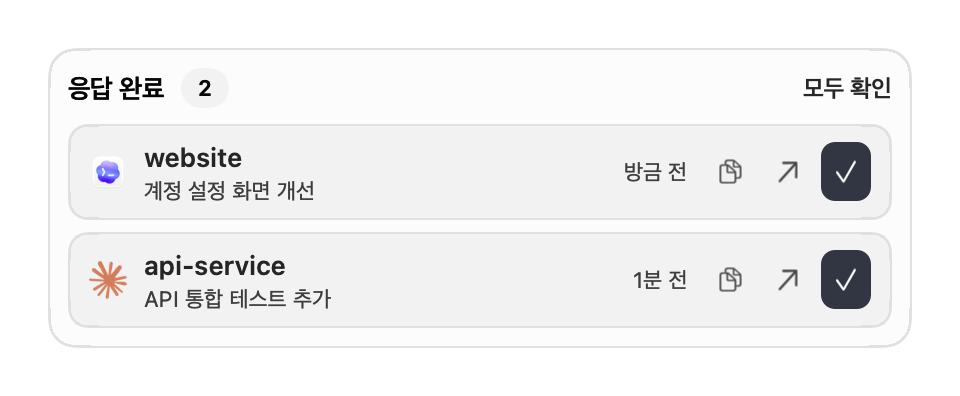
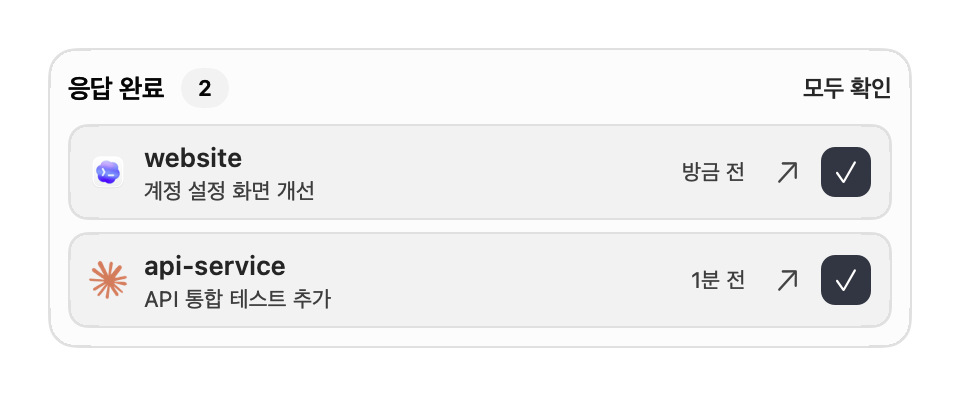
Keep one readable completion card per session

diff --git a/Sources/CompletionCard.swift b/Sources/CompletionCard.swift
@@ -23,21 +23,14 @@ final class CompletionCard: NSView {
         session.setContentCompressionResistancePriority(.defaultLow, for: .horizontal)
         let details = NSStackView(views: [title, session])
         details.orientation = .vertical; details.alignment = .leading; details.spacing = 1
+        details.setContentHuggingPriority(.defaultLow, for: .horizontal)
         let icon = NSImageView()
         icon.image = ProviderIcon.image(event.provider, size: 20)
+        icon.imageScaling = .scaleProportionallyUpOrDown
         icon.toolTip = event.provider.name + " · " + event.destination.label
         icon.setAccessibilityLabel(icon.toolTip!)
         icon.widthAnchor.constraint(equalToConstant: 20).isActive = true
         icon.heightAnchor.constraint(equalToConstant: 20).isActive = true
-        let copy = CompletionButton("", symbol: "doc.on.doc", plain: true) {
-            NSPasteboard.general.clearContents()
-            NSPasteboard.general.setString(SessionNavigator.resumeCommand(event), forType: .string)
-        }
-        let copyLabel = L10n.text("재개 명령 복사", "Copy resume command")
-        copy.toolTip = preview ? previewHint : copyLabel
-        copy.setAccessibilityLabel(copyLabel)
-        copy.isEnabled = !preview
-        copy.identifier = NSUserInterfaceItemIdentifier("completion-copy")
         let openButton = CompletionButton("", symbol: "arrow.up.right", plain: true, action: open)
         let openLabel = L10n.text("세션 열기", "Open session")
         openButton.toolTip = preview ? previewHint : openLabel
@@ -48,15 +41,20 @@ final class CompletionCard: NSView {
         dismiss.toolTip = L10n.text("확인", "Dismiss")
         dismiss.setAccessibilityLabel(dismiss.toolTip!)
         dismiss.identifier = NSUserInterfaceItemIdentifier("completion-dismiss")
-        [copy, openButton, dismiss].forEach {
+        [openButton, dismiss].forEach {
             $0.controlSize = .small
             $0.widthAnchor.constraint(equalToConstant: 26).isActive = true
             $0.setContentCompressionResistancePriority(.required, for: .horizontal)
         }
-        let buttons = NSStackView(views: [copy, openButton, dismiss])
+        let buttons = NSStackView(views: [openButton, dismiss])
         buttons.spacing = 3
-        let stack = NSStackView(views: [icon, details, NSView(), time, buttons])
-        stack.alignment = .centerY; stack.spacing = 8
+        let stack = NSView()
+        [icon, details, time, buttons].forEach {
+            $0.translatesAutoresizingMaskIntoConstraints = false
+            stack.addSubview($0)
+            $0.centerYAnchor.constraint(equalTo: stack.centerYAnchor).isActive = true
+        }
+        time.setContentHuggingPriority(.required, for: .horizontal)
         stack.translatesAutoresizingMaskIntoConstraints = false
         surface.addSubview(stack)
         NSLayoutConstraint.activate([
@@ -68,6 +66,13 @@ final class CompletionCard: NSView {
             stack.leadingAnchor.constraint(equalTo: surface.leadingAnchor, constant: 10),
             stack.trailingAnchor.constraint(equalTo: surface.trailingAnchor, constant: -10),
             stack.centerYAnchor.constraint(equalTo: surface.centerYAnchor),
+            stack.heightAnchor.constraint(equalToConstant: 34),
+            icon.leadingAnchor.constraint(equalTo: stack.leadingAnchor),
+            details.leadingAnchor.constraint(equalTo: icon.trailingAnchor, constant: 8),
+            time.leadingAnchor.constraint(equalTo: details.trailingAnchor, constant: 8),
+            buttons.leadingAnchor.constraint(equalTo: time.trailingAnchor, constant: 8),
+            buttons.trailingAnchor.constraint(equalTo: stack.trailingAnchor),
+            buttons.widthAnchor.constraint(equalToConstant: 55),
             title.widthAnchor.constraint(equalTo: details.widthAnchor),
             session.widthAnchor.constraint(equalTo: details.widthAnchor)
         ])

diff --git a/Tests/CompletionTests.swift b/Tests/CompletionTests.swift
@@ -30,6 +30,37 @@ func completionTests() throws {
     try store.record(newest)
     try store.acknowledge(Set([other.id]))
     try expect(try store.load().unread.map(\.id) == [newest.id], "Confirming a snapshot does not dismiss a concurrently arriving event")
+    let grouped = CompletionStore(directory: directory.appendingPathComponent("grouped"))
+    let base = Date()
+    func completion(_ id: String, _ offset: TimeInterval, provider: String = "codex", session: String = "same-session") -> CompletionEvent {
+        CompletionEvent(id: id, providerID: provider, sessionID: session, project: "Project", directory: "/project",
+                        sessionName: id, completedAt: base.addingTimeInterval(offset),
+                        destination: SessionDestination(host: .orca, target: "term_" + id))
+    }
+    let earliest = completion("first", 0), latest = completion("latest", 1)
+    try grouped.record(earliest); try grouped.record(latest)
+    try expect(try grouped.load().unread.map(\.id) == [latest.id], "A newer completion replaces the unread card for its provider and session")
+    try expect(try grouped.load().unread.first?.destination == latest.destination, "The replacement keeps the latest session label and navigation target")
+    try grouped.record(earliest)
+    try grouped.record(completion("delayed-old", -1))
+    try expect(try grouped.load().unread.map(\.id) == [latest.id], "Replayed and delayed older completions cannot replace the latest card")
+    try grouped.acknowledge(Set([earliest.id]))
+    try expect(try grouped.load().unread.map(\.id) == [latest.id], "Dismissing an older card does not hide its newer replacement")
+    try grouped.record(completion("claude-same-id", 2, provider: "claude"))
+    try grouped.record(completion("other-session", 3, session: "other"))
+    try expect(try grouped.load().unread.count == 3, "Different providers and sessions keep independent cards")
+    try grouped.acknowledge(latest.id)
+    try expect(try grouped.load().unread.allSatisfy { $0.providerID != "codex" || $0.sessionID != "same-session" },
+               "Dismissing the latest card cannot reveal an older completion")
+    let legacy = CompletionState(events: [earliest, latest])
+    try JSONEncoder().encode(legacy).write(to: grouped.file)
+    try expect(try CompletionStore(directory: grouped.directory).load().unread.map(\.id) == [latest.id],
+               "Relaunch coalesces multiple unread cards saved by older app versions")
+    try grouped.acknowledge(latest.id)
+    try grouped.record(earliest)
+    try expect(try grouped.load().unread.isEmpty, "Legacy older IDs remain suppressed after acknowledging the latest")
+    try grouped.record(completion("tie-a", 5)); try grouped.record(completion("tie-b", 5))
+    try expect(try grouped.load().unread.map(\.id) == ["tie-b"], "Equal timestamps use the most recently received completion")
     for kind in ["SessionStart", "SessionEnd", "SubagentStop", "Interrupt", "StopFailure"] {
         let data = try JSONSerialization.data(withJSONObject: ["hook_event_name": kind, "session_id": "s", "cwd": "/p"])
         try expect(try CompletionEvent.decode(data, provider: .claude, environment: [:]) == nil, "\(kind) is not a completion")

diff --git a/Tests/CompletionUITests.swift b/Tests/CompletionUITests.swift
@@ -43,6 +43,14 @@ import QuartzCore
         let bounds = action.convert(action.bounds, to: card)
         return bounds.width >= 26 && bounds.height >= 26 && abs(card.bounds.maxX - bounds.maxX - 10) < 1
     }, "Compact action buttons stay aligned to the right edge with usable hit areas")
+    try expect(buttons.filter { $0.identifier?.rawValue == "completion-dismiss" || $0.identifier?.rawValue == "completion-open" }
+        .allSatisfy { abs($0.frame.width - $0.frame.height) < 0.1 },
+        "Icon action buttons are visually square, without native bezel alignment insets")
+    try expect(cards.allSatisfy { card in
+        let title = descendants(card).compactMap { $0 as? NSButton }.first { !$0.title.isEmpty }
+        return (title?.frame.width ?? 0) > card.frame.width * 0.55
+    }, "Project and session titles receive the available row width instead of a blank spacer")
+    try expect(buttons.allSatisfy { $0.identifier?.rawValue != "completion-copy" }, "The notification has no copy action")
     try expect(panel.panel.isVisible && !panel.panel.hidesOnDeactivate, "Panel stays visible across app changes")
     try expect(panel.panel.level.rawValue >= NSWindow.Level.statusBar.rawValue && !panel.panel.canHide,
                "Floating inbox stays above ordinary and floating application windows")
@@ -156,6 +164,17 @@ import QuartzCore
     let settings = try JSONSerialization.jsonObject(with: Data(contentsOf: claudeConfig)) as! [String: Any]
     try expect(settings["theme"] as? String == "dark" && settings["hooks"] != nil, "Starting the controller connects Claude and preserves its existing settings")
     try expect(controller.unreadCount == 1, "Controller restores unread alerts from disk")
+    let replacement = CompletionEvent(id: "replacement", providerID: events[0].providerID, sessionID: events[0].sessionID,
+        project: events[0].project, directory: events[0].directory, sessionName: "Latest response",
+        completedAt: Date().addingTimeInterval(1), destination: SessionDestination())
+    try store.record(replacement)
+    func hasReplacement() -> Bool {
+        descendants(controllerPanel.panel.contentView!).compactMap { $0 as? NSTextField }.contains { $0.stringValue == "Latest response" }
+    }
+    let replacementDeadline = Date().addingTimeInterval(4)
+    while !hasReplacement() && Date() < replacementDeadline { RunLoop.main.run(until: Date().addingTimeInterval(0.05)) }
+    try expect(hasReplacement() && controller.unreadCount == 1,
+               "A newer completion updates the visible session card even when the unread count stays one")
     try store.record(events[1])
     waitForCount(2)
     try expect(controller.unreadCount == 2, "Controller discovers a completion received while running")

diff --git a/Sources/CompletionStore.swift b/Sources/CompletionStore.swift
@@ -6,6 +6,23 @@ struct CompletionState: Codable {
     var events: [CompletionEvent] = []
     var contexts: [String: CompletionContext]?
     var unread: [CompletionEvent] { events.filter { $0.acknowledgedAt == nil }.sorted { $0.completedAt > $1.completedAt } }
+
+    mutating func keepLatestPerSession(at now: Date = Date()) {
+        var latest: [String: Int] = [:]
+        for index in events.indices {
+            let event = events[index]
+            let key = event.providerID + "\u{0}" + event.sessionID
+            if let previous = latest[key], events[previous].completedAt > event.completedAt { continue }
+            latest[key] = index
+        }
+        for index in events.indices where events[index].acknowledgedAt == nil {
+            let key = events[index].providerID + "\u{0}" + events[index].sessionID
+            if let newest = latest[key], newest != index {
+                // Keep replaced IDs for replay protection, but never resurface an older card.
+                events[index].acknowledgedAt = events[newest].acknowledgedAt ?? now
+            }
+        }
+    }
 }
 
 struct CompletionContext: Codable {
@@ -24,8 +41,9 @@ struct CompletionStore {
     func load() throws -> CompletionState {
         guard FileManager.default.fileExists(atPath: file.path) else { return CompletionState() }
         do {
-            let state = try JSONDecoder().decode(CompletionState.self, from: Data(contentsOf: file))
+            var state = try JSONDecoder().decode(CompletionState.self, from: Data(contentsOf: file))
             guard state.version == 1 else { throw CompletionError.corruptStore }
+            state.keepLatestPerSession()
             return state
         } catch { throw CompletionError.corruptStore }
     }
@@ -89,6 +107,7 @@ struct CompletionStore {
         defer { flock(lock, LOCK_UN) }
         var state = try load()
         try change(&state)
+        state.keepLatestPerSession()
         // Never expire unread alerts. Keep acknowledged IDs for 90 days to suppress replays.
         let cutoff = Date().addingTimeInterval(-90 * 86400)
         state.events.removeAll { $0.acknowledgedAt.map { $0 < cutoff } ?? false }

diff --git a/Sources/Completion.swift b/Sources/Completion.swift
@@ -8,7 +8,7 @@ enum CompletionError: Error, LocalizedError {
         case .invalidEvent: return L10n.text("완료 이벤트 형식을 확인해 주세요.", "Invalid completion event.")
         case .busy: return L10n.text("잠시 후 다시 시도해 주세요.", "Please try again shortly.")
         case .unavailable: return L10n.text("원래 세션으로 이동하지 못했습니다. 앱·탭이 열려 있는지와 자동화 권한을 확인해 주세요.", "Could not open the original session. Check that its app and tab are open and automation is allowed.")
-        case .unsupported: return L10n.text("이 환경의 탭으로 바로 이동할 수 없습니다. 세션 재개 명령을 복사해 사용해 주세요.", "Direct navigation is unavailable for this environment. Copy the resume command instead.")
+        case .unsupported: return L10n.text("이 환경의 탭으로 바로 이동할 수 없습니다. 원래 터미널에서 세션을 직접 열어 주세요.", "Direct navigation is unavailable for this environment. Open the session in its original terminal.")
         case .corruptStore: return L10n.text("알림 저장 파일을 읽지 못했습니다. 기존 파일은 보존했습니다.", "Cannot read the notification store. The existing file has been preserved.")
         }
     }

diff --git a/Sources/SessionNavigator.swift b/Sources/SessionNavigator.swift
@@ -3,11 +3,6 @@ import AppKit
 enum SessionNavigator {
     static func shellQuote(_ value: String) -> String { "'" + value.replacingOccurrences(of: "'", with: "'\\''") + "'" }
 
-    static func resumeCommand(_ event: CompletionEvent) -> String {
-        let command = event.provider == .codex ? "codex resume" : "claude --resume"
-        return "cd -- \(shellQuote(event.directory)) && \(command) \(shellQuote(event.sessionID))"
-    }
-
     /// Navigation never acknowledges the alert: URL handlers cannot prove the session is visible.
     @MainActor static func open(_ original: SessionDestination) async throws {
         let destination = await Task.detached { HerdrClientBinding.resolve(original, directory: CompletionStore.standard.directory) }.value

diff --git a/Sources/CompletionStyle.swift b/Sources/CompletionStyle.swift
@@ -54,6 +54,8 @@ final class CompletionButton: NSButton {
     }
     required init?(coder: NSCoder) { fatalError("init(coder:) has not been implemented") }
     @objc private func invoke() { perform?() }
+    // This control draws its whole frame; NSButton's symbol/bezel insets distort icon buttons.
+    override var alignmentRectInsets: NSEdgeInsets { NSEdgeInsets(top: 0, left: 0, bottom: 0, right: 0) }
     override var intrinsicContentSize: NSSize {
         let text = (title as NSString).size(withAttributes: [.font: font!])
         if title.isEmpty, image != nil { return NSSize(width: 26, height: 26) }

diff --git a/Tests/completion_test.py b/Tests/completion_test.py
@@ -53,6 +53,22 @@ class CompletionIntegrationTests(unittest.TestCase):
             self.assertEqual(self.hook(stop, "claude").returncode, 0)
         self.assertEqual(len(self.state()["events"]), 2)
 
+    def test_concurrent_turns_keep_one_unread_card_per_provider_and_session(self):
+        payloads = [self.completion("same-session", f"turn-{i}") for i in range(12)]
+        with concurrent.futures.ThreadPoolExecutor(max_workers=8) as workers:
+            results = list(workers.map(self.hook, payloads))
+        self.assertTrue(all(p.returncode == 0 for p in results), [p.stderr for p in results])
+        stored = self.state()["events"]
+        unread = [e for e in stored if e.get("acknowledgedAt") is None]
+        self.assertEqual(len(stored), 12)  # Retain replaced IDs to suppress replays.
+        self.assertEqual(len(unread), 1)
+        latest_id = unread[0]["id"]
+        for payload in payloads:
+            self.assertEqual(self.hook(payload).returncode, 0)
+        self.assertEqual([e["id"] for e in self.state()["events"] if e.get("acknowledgedAt") is None], [latest_id])
+        self.assertEqual(self.hook(self.completion("same-session", "claude-turn"), "claude").returncode, 0)
+        self.assertEqual(len([e for e in self.state()["events"] if e.get("acknowledgedAt") is None]), 2)
+
     def test_ignored_events_do_not_create_alerts(self):
         for event in ["SessionStart", "Interrupt", "StopFailure", "SessionEnd", "SubagentStop"]:
             result = self.hook({"hook_event_name": event, "session_id": "s", "cwd": "/p"})

diff --git a/Docs/Notifications.md b/Docs/Notifications.md
@@ -2,11 +2,13 @@
 
 AiQuotaBar can show persistent completion cards for multiple Codex and Claude Code sessions. Cards initially appear on the macOS primary display, float above other apps across Spaces (including full-screen spaces), and remain until you choose **Dismiss** or **Dismiss all**. Drag the panel's header or background to any connected display. Its position is remembered, including when new cards arrive or the app restarts. If that display is disconnected, the panel returns to the primary display.
 
-The inbox is an independent, borderless floating window; it does not send macOS Notification Center banners. Each compact 48-point card shows a provider icon, project, session label, and relative completion time. Hover over the icon for the provider and terminal, or the time for the exact date and time. Clicking the project or **↗ Open session** targets the original session without dismissing its card. The copy icon copies the resume command; **✓ Dismiss** acknowledges the card. All icon buttons have tooltips and accessibility labels. The window stays above other app windows and fits its cards without an internal scrollbar. Up to three cards fit on a page (fewer on a small display); previous/next buttons expose the rest.
+Only the latest completion for each provider/session appears. A new completion updates that card and its time; previous event IDs remain stored for replay protection. Existing duplicate cards are collapsed when the app loads them. Dismissing the newest card does not reveal older completions.
+
+The inbox is an independent, borderless floating window; it does not send macOS Notification Center banners. Each compact 48-point card shows a provider icon, project, session label, and relative completion time. Hover over the icon for the provider and terminal, or the time for the exact date and time. Clicking the project or **↗ Open session** targets the original session without dismissing its card. **✓ Dismiss** acknowledges the card. The title uses the available row width, and action buttons are square. All icon buttons have tooltips and accessibility labels. The window stays above other app windows and fits its cards without an internal scrollbar. Up to three cards fit on a page (fewer on a small display); previous/next buttons expose the rest.
 
 The entire panel swings three times by ±3° around its top-right corner when new completions arrive and every 12 seconds afterward. Each movement takes 0.11 seconds. Dismissal stops the animation; macOS **Reduce motion** disables it, including when enabled while the animation is running.
 
-Choose **Preview floating alert** in the menu to see and dismiss two clearly marked sample cards without running an agent. Preview cards are never stored, never count as unread completions, and have session navigation and command copying disabled. Real incoming completions replace the preview. **Show completions** also uses the custom panel when the inbox is empty.
+Choose **Preview floating alert** in the menu to see and dismiss two clearly marked sample cards without running an agent. Preview cards are never stored, never count as unread completions, and have session navigation disabled. Real incoming completions replace the preview. **Show completions** also uses the custom panel when the inbox is empty.
 
 <img src="../Assets/screenshots/completions-en.png" alt="Completion cards for fictional Codex and Claude Code sessions" width="390">
 
@@ -55,9 +57,9 @@ AIQUOTABAR_SESSION_NAME="Account settings" codex
 | WezTerm | Existing pane via `wezterm cli activate-pane` | Requires `WEZTERM_PANE`; preserves `WEZTERM_UNIX_SOCKET` when supplied. |
 | kitty | Existing pane via `kitten @ focus-window` | Requires `KITTY_WINDOW_ID`, a local `unix:` `KITTY_LISTEN_ON`, and already-configured remote-control permission. AiQuotaBar does not change kitty settings. |
 | Herdr | Current attached terminal plus the Herdr agent pane | Start Herdr using the wrapper below. The most recently registered live attachment is used. |
-| Ghostty, VS Code / Cursor integrated terminal, tmux, screen, SSH | Completion cards and **Copy resume** | Exact-tab navigation is not implemented. These environments need additional session mapping or an extension/remote bridge. |
+| Ghostty, VS Code / Cursor integrated terminal, tmux, screen, SSH | Completion cards only | Exact-tab navigation is not implemented. These environments need additional session mapping or an extension/remote bridge. |
 
-Navigation uses captured identifiers, never the frontmost tab, project name, or screen coordinates. A closed tab, unavailable CLI, denied Automation permission, unsupported environment, or expired handle leaves the card unread with an explanation. **Copy resume** copies a shell-quoted command; it does not execute it or create another session automatically. URL-based integrations can acknowledge only that macOS accepted the URL, not that the pane became visible, so opening a card never counts as dismissal.
+Navigation uses captured identifiers, never the frontmost tab, project name, or screen coordinates. A closed tab, unavailable CLI, denied Automation permission, unsupported environment, or expired handle leaves the card unread with an explanation. If navigation is unavailable, open or resume the session in its original terminal. URL-based integrations can acknowledge only that macOS accepted the URL, not that the pane became visible, so opening a card never counts as dismissal.
 
 ### Herdr
 
@@ -70,7 +72,7 @@ AQB="/Applications/AiQuotaBar.app/Contents/MacOS/AiQuotaBar"
 "$AQB" --run-herdr --session work
 ```
 
-Run this in a supported outer terminal, then launch Codex / Claude with the hooks connected. The wrapper records the outer terminal and replaces itself with `herdr`; it does not create an additional agent or intercept terminal input. On click, AiQuotaBar checks that attachment's process lifetime and the Herdr socket identity, selects the Herdr pane, and reveals the outer tab. Reattach with the wrapper after changing terminals. If several clients attach, the last registered live client is the destination. A server restart invalidates old pane destinations; use **Copy resume** rather than opening a potentially reused pane ID. SSH and nested tmux/Herdr attachments are not supported by this wrapper.
+Run this in a supported outer terminal, then launch Codex / Claude with the hooks connected. The wrapper records the outer terminal and replaces itself with `herdr`; it does not create an additional agent or intercept terminal input. On click, AiQuotaBar checks that attachment's process lifetime and the Herdr socket identity, selects the Herdr pane, and reveals the outer tab. Reattach with the wrapper after changing terminals. If several clients attach, the last registered live client is the destination. A server restart invalidates old pane destinations; reopen the session manually instead of following a potentially reused pane ID. SSH and nested tmux/Herdr attachments are not supported by this wrapper.
 
 ## What “finished” means
 
@@ -86,10 +88,11 @@ Before switching to this advanced integration, run `--remove-completion-hooks co
 
 ## Local data and troubleshooting
 
-`~/Library/Application Support/AiQuotaBar/Notifications/` holds completion metadata, destination IDs, and local Herdr bindings. Files are user-only; writes are atomic and protected by a process lock. Prompt and assistant text, credentials, and terminal output are not saved. There is no analytics or network collector. Unread cards never expire; acknowledged event IDs are kept for 90 days to prevent replay after restart. All unread cards remain available through page controls; the panel fits its current page without scrolling.
+`~/Library/Application Support/AiQuotaBar/Notifications/` holds completion metadata, destination IDs, and local Herdr bindings. Files are user-only; writes are atomic and protected by a process lock. Prompt and assistant text, credentials, and terminal output are not saved. There is no analytics or network collector. The latest unread card per provider/session never expires; acknowledged and replaced event IDs are kept for 90 days to prevent replay after restart. All unread cards remain available through page controls; the panel fits its current page without scrolling.
 
+- **Only some sessions notify:** sessions already running when hooks were installed or trusted may still use their previous hook configuration. After their current work finishes, restart Codex and resume the same conversation with `codex resume`, then review AiQuotaBar in `/hooks`. Installing or restarting AiQuotaBar alone does not refresh those running Codex sessions.
 - **No cards:** check the configuration path, start a new session, review Codex `/hooks`, and ensure hooks are not globally disabled. Test from the same profile used by the agent manager.
-- **No direct navigation:** sample previews have no real session and disable navigation. For real alerts, check the table above, Automation permissions, and whether the original tab still exists; use **Copy resume** when the destination is unavailable. For Herdr, attach through `--run-herdr`.
+- **No direct navigation:** sample previews have no real session and disable navigation. For real alerts, check the table above, Automation permissions, and whether the original tab still exists; open the session manually when the destination is unavailable. For Herdr, attach through `--run-herdr`.
 - **Store error:** AiQuotaBar preserves an unreadable file rather than silently resetting it. Quit the app and back up the Notifications folder before repairing it.
 - **Moving:** launch from the new location to update the automatic profile; reconnect custom profiles with the CLI. **Uninstalling:** disconnect hooks in every profile first. Unread metadata remains until you separately remove the Notifications folder.
 

diff --git a/README.ko.md b/README.ko.md
@@ -84,13 +84,13 @@ open dist/AiQuotaBar.app
 
 ## 완료 알림
 
-AiQuotaBar를 실행하면 설치된 Codex·Claude Code CLI의 완료 알림이 자동으로 연결됩니다. 별도 연결 메뉴나 설정 대화 상자는 없으며, 연결 후 새 에이전트 세션을 시작하면 됩니다. Codex 자체의 보안 절차에 따라 `/hooks`에서 새 훅을 검토하고 신뢰하는 과정은 필요합니다. 프로젝트·세션·완료 시각이 표시된 카드는 확인할 때까지 유지되며 앱 재실행 후에도 복원됩니다. 세션을 열기만 해서는 확인 처리하지 않습니다.
+AiQuotaBar를 실행하면 설치된 Codex·Claude Code CLI의 완료 알림이 자동으로 연결됩니다. 별도 연결 메뉴나 설정 대화 상자는 없으며, 연결 후 새 에이전트 세션을 시작하면 됩니다. Codex 자체의 보안 절차에 따라 `/hooks`에서 새 훅을 검토하고 신뢰하는 과정은 필요합니다. 서비스·세션별로 카드 하나만 표시하며, 새 완료가 오면 최신 내용으로 갱신합니다. 프로젝트·세션·완료 시각이 표시된 카드는 확인할 때까지 유지되며 앱 재실행 후에도 복원됩니다. 세션을 열기만 해서는 확인 처리하지 않습니다.
 
 알림은 처음에 메인 모니터에 표시됩니다. 상단이나 빈 배경을 드래그해 다른 모니터로 옮길 수 있으며, 새 알림이 오거나 앱을 다시 실행해도 옮긴 위치를 유지합니다. 해당 모니터의 연결을 해제하면 메인 모니터로 돌아옵니다.
 
 기본 OS 알림 배너와 별개인 자체 플로팅 창입니다. 높이 48pt의 작은 카드에 서비스 아이콘·프로젝트·세션·완료 시각과 작은 동작 버튼을 표시합니다. 확인할 때까지 12초마다 오른쪽 위 모서리를 기준으로 좌우 세 번 흔들리며, ‘동작 줄이기’ 설정을 따릅니다. 메뉴의 **플로팅 미리보기**에서 예시 데이터로 바로 확인할 수 있습니다.
 
-Terminal, iTerm2, Warp, cmux, Orca, WezTerm, 설정된 kitty 세션의 직접 이동을 구현했습니다. Herdr는 바깥 터미널을 정확히 찾기 위한 접속 래퍼가 필요합니다. 지원하지 않거나 닫힌 탭은 재개 명령을 복사할 수 있습니다. 자동 연결은 기존 훅을 보존하고 변경되는 설정 파일을 백업합니다. 설치되지 않은 도구는 건너뛰고 나중에 설치하면 감지하며, 잘못된 설정이나 비활성화된 훅은 그대로 두고 연결 문제로 표시합니다.
+Terminal, iTerm2, Warp, cmux, Orca, WezTerm, 설정된 kitty 세션의 직접 이동을 구현했습니다. Herdr는 바깥 터미널을 정확히 찾기 위한 접속 래퍼가 필요합니다. 지원하지 않거나 닫힌 탭은 이유를 표시하며, 원래 터미널에서 직접 열거나 재개해야 합니다. 자동 연결은 기존 훅을 보존하고 변경되는 설정 파일을 백업합니다. 설치되지 않은 도구는 건너뛰고 나중에 설치하면 감지하며, 잘못된 설정이나 비활성화된 훅은 그대로 두고 연결 문제로 표시합니다.
 
 버전·환경별 조건, Herdr 접속, 사용자 지정 프로필, 완료의 의미와 데이터 보관 방식은 [완료 알림 가이드](Docs/Notifications.ko.md)를 참고하세요. 이 기능은 소스 빌드에 포함되며, 공개된 v0.1.0 DMG에는 아직 포함되지 않았습니다.
 

diff --git a/README.md b/README.md
@@ -84,13 +84,13 @@ The app searches standard Homebrew paths, `~/.local/bin`, the launch environment
 
 ## Completion notifications
 
-Launch AiQuotaBar to automatically connect installed Codex and Claude Code CLIs; no connection menu or setup dialog is required. Start a new agent session afterward. Codex still requires reviewing and trusting new hooks in `/hooks`. Cards remain until dismissed, survive app restarts, and include project, session, and completion time. Opening a card keeps it unread until you explicitly dismiss it.
+Launch AiQuotaBar to automatically connect installed Codex and Claude Code CLIs; no connection menu or setup dialog is required. Start a new agent session afterward. Codex still requires reviewing and trusting new hooks in `/hooks`. Each provider/session keeps one card, updated by its newest completion. Cards remain until dismissed, survive app restarts, and include project, session, and completion time. Opening a card keeps it unread until you explicitly dismiss it.
 
 Notifications initially appear on the macOS primary display. Drag the header or background to any connected monitor; new alerts and app restarts preserve your chosen position. Disconnecting that monitor returns the panel to the primary display.
 
 This is a custom floating window with compact 48-point cards, independent of macOS notification banners. Each card keeps the provider icon, project, session, completion time, and small action buttons. It swings three times around its top-right corner every 12 seconds until dismissed, respecting Reduce Motion. Use **Preview floating alert** in the menu to try it with sample data.
 
-Direct navigation is implemented for Terminal, iTerm2, Warp, cmux, Orca, WezTerm, and configured kitty sessions. Herdr needs an attachment wrapper so the correct outer terminal is selected. Unsupported or closed targets offer a copyable resume command. Automatic setup preserves existing hooks and backs up changed configuration files. Missing tools are skipped and detected after installation; invalid or disabled hook settings are left intact and shown as a connection issue.
+Direct navigation is implemented for Terminal, iTerm2, Warp, cmux, Orca, WezTerm, and configured kitty sessions. Herdr needs an attachment wrapper so the correct outer terminal is selected. Unsupported or closed targets display an explanation; open or resume those sessions in their original terminal. Automatic setup preserves existing hooks and backs up changed configuration files. Missing tools are skipped and detected after installation; invalid or disabled hook settings are left intact and shown as a connection issue.
 
 See the [completion notification guide](Docs/Notifications.md) for supported versions and environments, Herdr setup, custom profiles, completion semantics, and local data retention. This feature is available in source builds and is not yet in the published v0.1.0 DMG.
 
